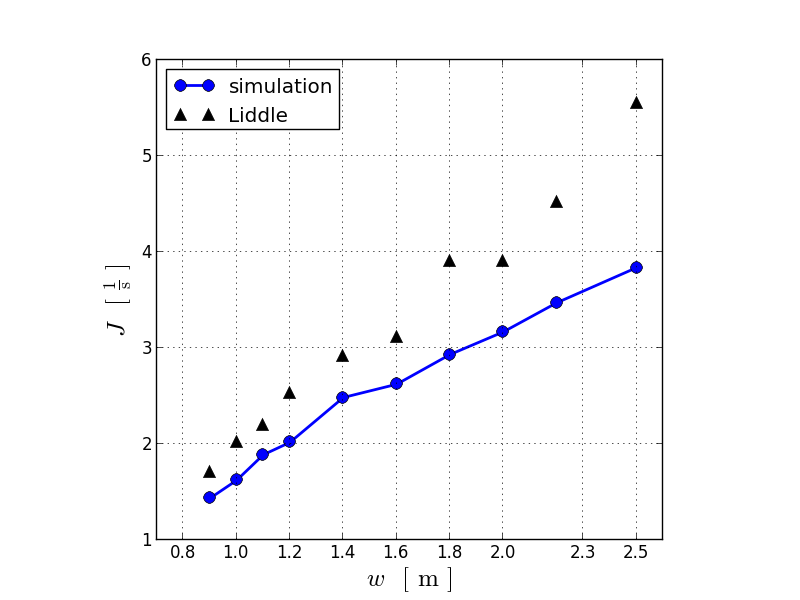
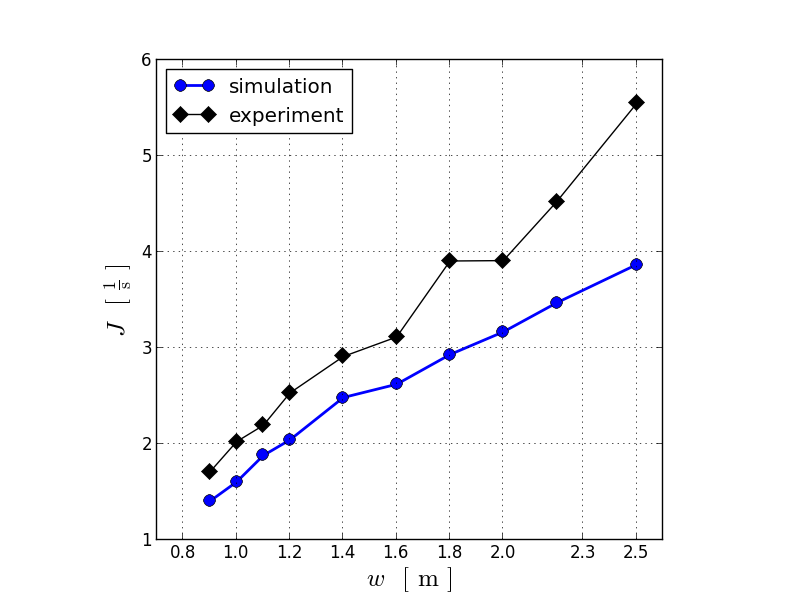
some changes on tests

diff --git a/Utest/testflow.py b/Utest/testflow.py
@@ -6,7 +6,7 @@ from os import path, system
 from sys import argv ,exit
 import subprocess
 
-from matplotlib.pyplot import *
+#from matplotlib.pyplot import *
 
 SUCCESS = 0
 FAILURE = 1
@@ -47,7 +47,7 @@ def parse_file(filename):
     fps= xmldoc.getElementsByTagName('frameRate')[0].childNodes[0].data #type unicode
     fps = float(fps)
     fps = int(fps)
-
+    print "fps=", fps
     #fps = int(xmldoc.getElementsByTagName('frameRate')[0].childNodes[0].data)
     logging.info ("Npeds = %d, fps = %d"%(N, fps))
     frames = xmldoc.childNodes[0].getElementsByTagName('frame')
@@ -149,19 +149,19 @@ if __name__ == "__main__":
     print >>ff, flows
     ff.close
     #########################################################################
-    ms = 8
-    plot(widths, flows, "o-b", lw = 2, ms = ms, label = "simulation")
-    plot(lid_w , lid_f, "D-k", ms = ms, label = "experiment")
-    axes().set_aspect(1./axes().get_data_ratio())  
-    legend(loc='best')
-    grid()
-    xlabel(r'$w\; [\, \rm{m}\, ]$',fontsize=18)
-    ylabel(r'$J\; [\, \frac{1}{\rm{s}}\, ]$',fontsize=18)
-    xticks([0.8, 1.0, 1.2, 1.4, 1.6, 1.8, 2.0, 2.3, 2.5])
-    xlim([0.7, 2.6])
-    ylim([1, 6])
-    savefig("flow.png")
-    show()
+    # ms = 8
+    # plot(widths, flows, "o-b", lw = 2, ms = ms, label = "simulation")
+    # plot(lid_w , lid_f, "D-k", ms = ms, label = "experiment")
+    # axes().set_aspect(1./axes().get_data_ratio())  
+    # legend(loc='best')
+    # grid()
+    # xlabel(r'$w\; [\, \rm{m}\, ]$',fontsize=18)
+    # ylabel(r'$J\; [\, \frac{1}{\rm{s}}\, ]$',fontsize=18)
+    # xticks([0.8, 1.0, 1.2, 1.4, 1.6, 1.8, 2.0, 2.3, 2.5])
+    # xlim([0.7, 2.6])
+    # ylim([1, 6])
+    # savefig("flow.png")
+    # show()
     #########################################################################
     
     time2 = time.clock()

diff --git a/Utest/testPointOnEllipse.cpp b/Utest/testPointOnEllipse.cpp
@@ -1,7 +1,16 @@
 #include <cstdlib>
-#include "../math/Mathematics.h"
-
+#include <stdio.h>
 #include "../pedestrian/Ellipse.h"
+
+//#include "Config.h"
+
+#ifdef WINDOWS
+#include <direct.h>
+    #define GetCurrentDir _getcwd
+#else
+#include <unistd.h>
+    #define GetCurrentDir getcwd
+ #endif
 
 OutputHandler* Log;
 
@@ -9,6 +18,20 @@ OutputHandler* Log;
 //int testPointOnEllipse(int argc, char* argv[])
 int testPointOnEllipse()
 {
+
+    char cCurrentPath[FILENAME_MAX];
+    if (!GetCurrentDir(cCurrentPath, sizeof(cCurrentPath)))
+    {
+        return EXIT_FAILURE;
+    }
+    cCurrentPath[sizeof(cCurrentPath) - 1] = '\0'; /* not really required */
+
+    FILE * f;
+    char fname[FILENAME_MAX] = "log_testPointOnEllipse.txt";
+    // strcpy(fname, cCurrentPath);
+    // strcat(fname, "logs/log_testPointOnEllipse.txt");
+    f = fopen(fname, "w");
+    fprintf (f, "The current working directory is %s\n\n", cCurrentPath);
     int i, j, ntests=0, res=0;
     float r=2.0;
     JEllipse E;
@@ -19,7 +42,6 @@ int testPointOnEllipse()
     E.SetBmax(r);
     
     float sx, sy, l;
-    float rx, ry;
     Point S(0,0); //test point
     Point P(0,0); // result 
     Point T(0,0); // should be result
@@ -37,13 +59,15 @@ int testPointOnEllipse()
             T.SetY(r*sy/l);
             P = E.PointOnEllipse(S);
             res += (P==T)?1:0;
-            
             ntests++;
+            fprintf (f, "Tx=%.2f\t Ty=%.2f\t Px=%.2f\t Py=%.2f\t res=%d\t ntests=%d\n",T.GetX(), T.GetY(), P.GetX(), P.GetY(), res, ntests);
         }
+    fclose(f);
     return (res==ntests)?EXIT_SUCCESS:EXIT_FAILURE;
 }
 
-int main(int argc, char* argv[])
+int main(int argc, char * argv[])
 {
+    //   fprintf(stdout, "%s Version %d.%d\n", argv[0], JPSCORE_MINOR_VERSION, JPSCORE_MAJOR_VERSION);
     return testPointOnEllipse();
 }

diff --git a/Utest/testequal.cpp b/Utest/testequal.cpp
@@ -1,22 +1,44 @@
-// Teste die folgenden Funktion der Klasse Equal:
-// GetPair, GetRand
+// Test Equal.GetRand() 
 #include <cstdlib>
 #include "../math/Distribution.h"
-#include <iostream>
-
+#include <stdio.h>
 
 //x should be in [mu-sigma, mu+sigma]
 int test_equal()
 {
+    FILE * f;
+    char fname[FILENAME_MAX] = "log_testEqual.txt";
+    f = fopen(fname, "w");
+
+    int res = 0; 
     double mu = 1.24;
     double sigma = 0.26;
+    double r;
+    // test different constructors
+    // 1
     Equal distequal(mu, sigma);
-    return (distequal.GetRand()< mu-sigma || mu+sigma<distequal.GetRand())?EXIT_FAILURE:EXIT_SUCCESS;
+    r = distequal.GetRand();
+    res = ( r < mu-sigma || mu+sigma < r )?0:1;
+    fprintf(f, "1: mu=%.2f\t sigma=%.2f\t [%.2f, %.2f]\t r=%.2f\t res=%d\n",mu, sigma, mu-sigma, mu+sigma, r, res);
+    // 2
+    Equal distequal1(distequal);
+    r = distequal.GetRand();
+    res += (distequal.GetRand()< mu-sigma || mu+sigma<distequal.GetRand())?0:1;
+    fprintf(f, "2: mu=%.2f\t sigma=%.2f\t [%.2f, %.2f]\t r=%.2f\t res=%d\n",mu, sigma, mu-sigma, mu+sigma, r, res);
+    // 3 
+    Equal distequal2();
+    r = distequal.GetRand();
+    res += (distequal.GetRand()< mu-sigma || mu+sigma<distequal.GetRand())?0:1;
+    fprintf(f, "3: mu=%.2f\t sigma=%.2f\t [%.2f, %.2f]\t r=%.2f\t res=%d\n",mu, sigma, mu-sigma, mu+sigma, r, res);
+    
+
+    fclose(f);
+    return (res!=3)?EXIT_FAILURE:EXIT_SUCCESS;
 }
 
 
 
-int main(int argc, char* argv[])
+int main()
 {
     return test_equal();
 }

diff --git a/pedestrian/Ellipse.cpp b/pedestrian/Ellipse.cpp
@@ -562,11 +562,11 @@ double JEllipse::MinimumDistanceToLine(const Line& l) const {
  P2(x2,y2): Action-point in E2
 
 
- C1*------------*C2
- /              \
+     C1*------------*C2
+      /              \
      /                \
     /                  \
-P1 *			\
+   P1 *			\
  *P2
 
  1. find the closest distance between C1 and C2: d

diff --git a/math/Distribution.cpp b/math/Distribution.cpp
@@ -128,7 +128,7 @@ Equal::Equal(const Equal& orig) : Distribution(orig) {
 Equal::~Equal() {
 }
 
-// Gleichverteilte ZUfallszahl auf [mu-sigma, mu+sigma]
+// Uniform distribution in [mu-sigma, mu+sigma]
 double Equal::GetRand() {
     double x;
     double mu = GetMean();

diff --git a/Utest/testSign1.cpp b/Utest/testSign1.cpp
@@ -6,7 +6,7 @@ int testSign1(){
     return (sign(-1.0)==-1)?EXIT_SUCCESS:EXIT_FAILURE;
 }
 
-int main(int argc, char* argv[])
+int main()
 {
     return testSign1();
 }

diff --git a/Utest/testSign.cpp b/Utest/testSign.cpp
@@ -6,7 +6,7 @@ int testSign()
     return (sign(1.0)==1)?EXIT_SUCCESS:EXIT_FAILURE;
 }
 
-int main(int argc, char* argv[])
+int main()
 {
     return testSign();
 }
